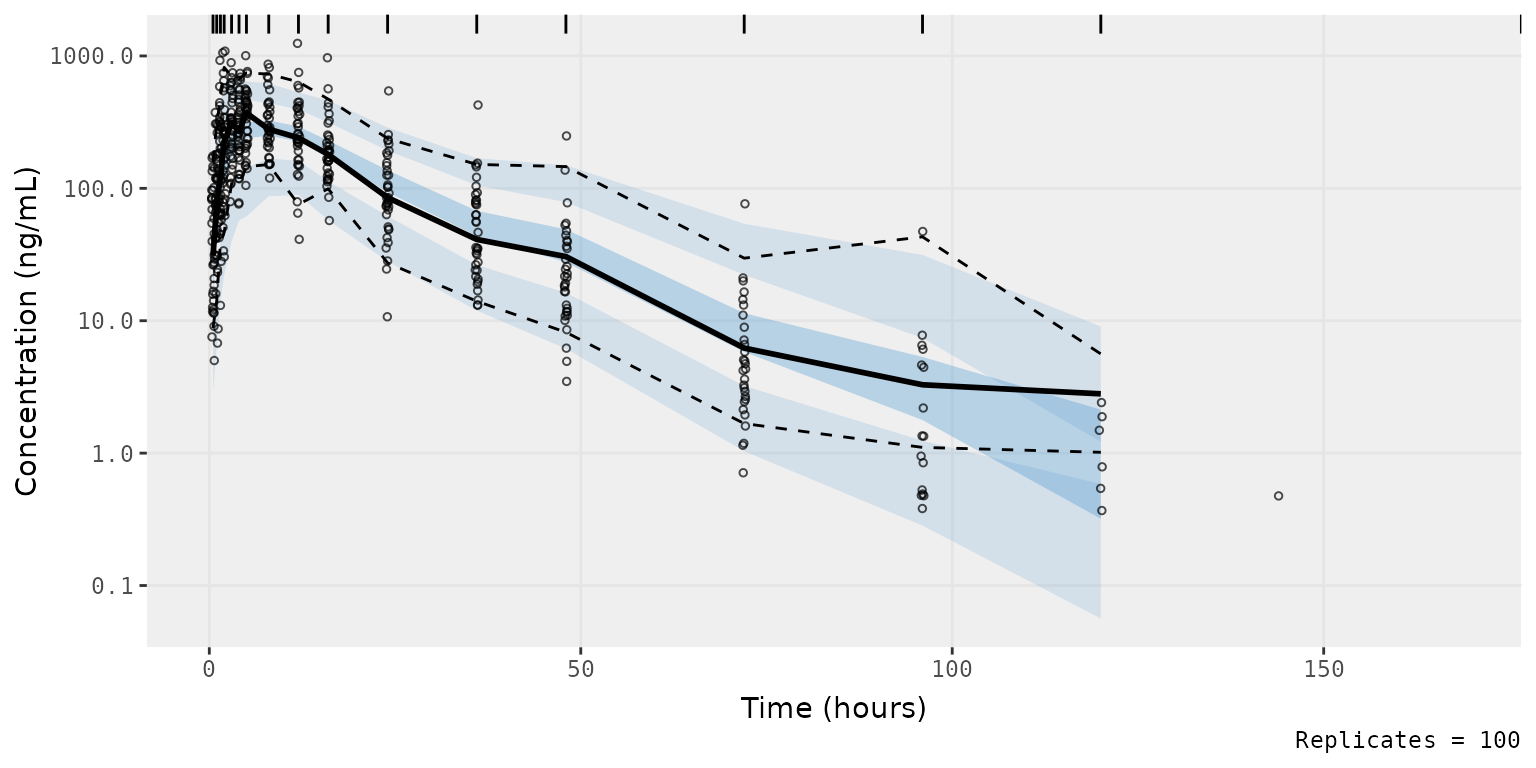
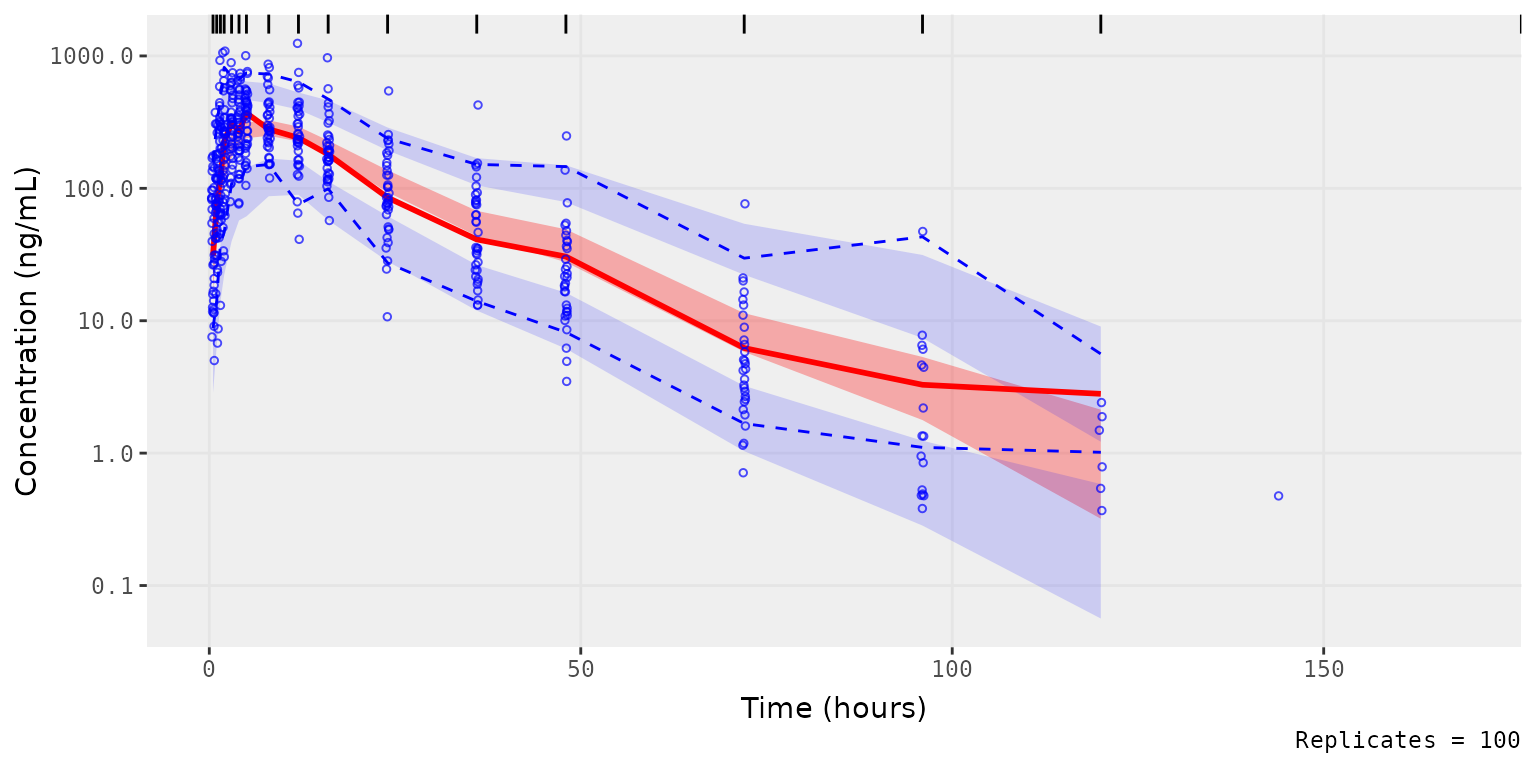
Deploying to gh-pages from @ ryancrass/pmxhelpr@3bb4970f40ec749e3e99c6837dfc94473dbfc81a 🚀

Changed region(s): [[0.125, 0.0625, 0.7188, 0.6875], [0.5938, 0.625, 0.625, 0.6562]]

diff --git a/articles/vpc-plot-aesthetics.html b/articles/vpc-plot-aesthetics.html
@@ -265,6 +265,7 @@ schema.</p>
 <span>  xlab <span class="op">=</span> <span class="st">"Time (hours)"</span>,</span>
 <span>  ylab <span class="op">=</span> <span class="st">"Concentration (ng/mL)"</span>,</span>
 <span>  pcvpc <span class="op">=</span> <span class="cn">TRUE</span>,</span>
+<span>  theme <span class="op">=</span> <span class="va">vpc_theme</span>,</span>
 <span>  min_bin_count <span class="op">=</span> <span class="fl">5</span></span>
 <span><span class="op">)</span> </span>
 <span><span class="co">#&gt; Joining with `by = join_by(NTIME)`</span></span>
